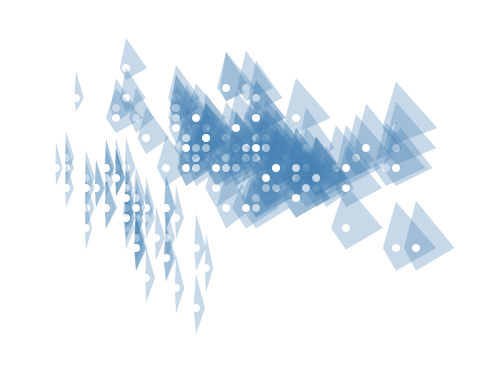
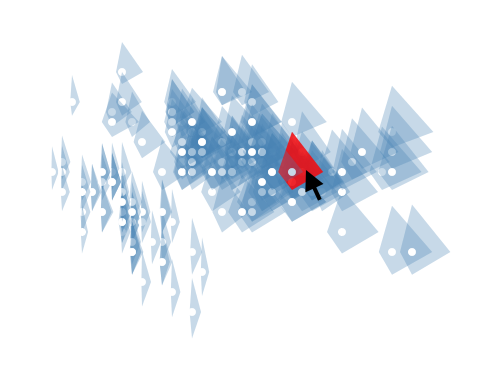
Added hover to svelte example

diff --git a/_posts/2021-03-03-hands-on-data-visualization-using-svelte.md b/_posts/2021-03-03-hands-on-data-visualization-using-svelte.md
@@ -1294,6 +1294,10 @@ Wat is new here, is the second line `import Flower from './Flower.svelte';`, and
     fill: steelblue;
     fill-opacity: 0.3;
   }
+  path:hover {
+    fill: red;
+    fill-opacity: 0.8;
+  }
 </style>
 <g transform="translate({sl*50}, {sw*50})">
   <path d={path} />
